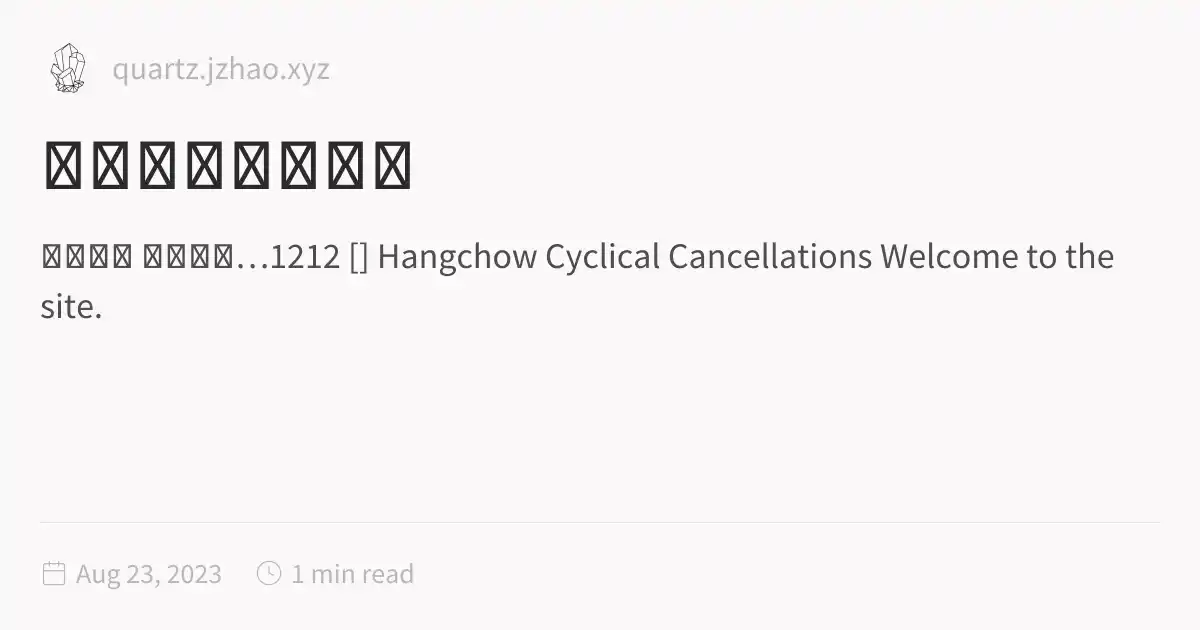
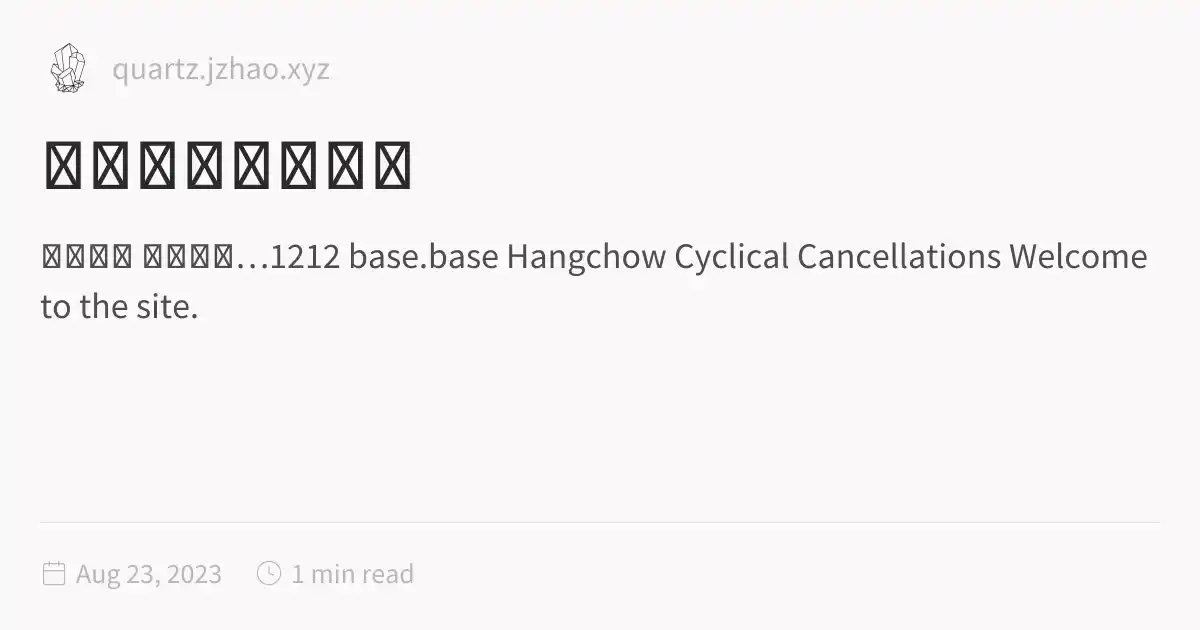
deploy: lihengjun/my-obsidian-vault@2c832732b156394f11b55da09ab7f004a84efbd4

Changed region(s): [[0.2775, 0.3921, 0.9558, 0.4524], [0.0308, 0.4524, 0.1542, 0.5127]]

diff --git a/index.html b/index.html
@@ -1,5 +1,5 @@
 <!DOCTYPE html>
-<html lang="en"><head><title>杭州城幹支戳蓃集</title><meta charset="utf-8"/><link rel="preconnect" href="https://fonts.googleapis.com"/><link rel="preconnect" href="https://fonts.gstatic.com"/><link rel="stylesheet" href="https://fonts.googleapis.com/css2?family=Schibsted Grotesk:wght@400;700&amp;family=Source Sans Pro:ital,wght@0,400;0,600;1,400;1,600&amp;family=IBM Plex Mono:wght@400;600&amp;display=swap"/><link rel="preconnect" href="https://cdnjs.cloudflare.com" crossorigin="anonymous"/><meta name="viewport" content="width=device-width, initial-scale=1.0"/><meta name="og:site_name" content="Quartz 4"/><meta property="og:title" content="杭州城幹支戳蓃集"/><meta property="og:type" content="website"/><meta name="twitter:card" content="summary_large_image"/><meta name="twitter:title" content="杭州城幹支戳蓃集"/><meta name="twitter:description" content="内容标题 你的内容…1212 [] Hangchow Cyclical Cancellations Welcome to the site."/><meta property="og:description" content="内容标题 你的内容…1212 [] Hangchow Cyclical Cancellations Welcome to the site."/><meta property="og:image:alt" content="内容标题 你的内容…1212 [] Hangchow Cyclical Cancellations Welcome to the site."/><meta property="twitter:domain" content="quartz.jzhao.xyz"/><meta property="og:url" content="https://quartz.jzhao.xyz/index"/><meta property="twitter:url" content="https://quartz.jzhao.xyz/index"/><link rel="icon" href="./static/icon.png"/><meta name="description" content="内容标题 你的内容…1212 [] Hangchow Cyclical Cancellations Welcome to the site."/><meta name="generator" content="Quartz"/><link href="./index.css" rel="stylesheet" type="text/css" spa-preserve/><style>.expand-button {
+<html lang="en"><head><title>杭州城幹支戳蓃集</title><meta charset="utf-8"/><link rel="preconnect" href="https://fonts.googleapis.com"/><link rel="preconnect" href="https://fonts.gstatic.com"/><link rel="stylesheet" href="https://fonts.googleapis.com/css2?family=Schibsted Grotesk:wght@400;700&amp;family=Source Sans Pro:ital,wght@0,400;0,600;1,400;1,600&amp;family=IBM Plex Mono:wght@400;600&amp;display=swap"/><link rel="preconnect" href="https://cdnjs.cloudflare.com" crossorigin="anonymous"/><meta name="viewport" content="width=device-width, initial-scale=1.0"/><meta name="og:site_name" content="Quartz 4"/><meta property="og:title" content="杭州城幹支戳蓃集"/><meta property="og:type" content="website"/><meta name="twitter:card" content="summary_large_image"/><meta name="twitter:title" content="杭州城幹支戳蓃集"/><meta name="twitter:description" content="内容标题 你的内容…1212 base.base Hangchow Cyclical Cancellations Welcome to the site."/><meta property="og:description" content="内容标题 你的内容…1212 base.base Hangchow Cyclical Cancellations Welcome to the site."/><meta property="og:image:alt" content="内容标题 你的内容…1212 base.base Hangchow Cyclical Cancellations Welcome to the site."/><meta property="twitter:domain" content="quartz.jzhao.xyz"/><meta property="og:url" content="https://quartz.jzhao.xyz/index"/><meta property="twitter:url" content="https://quartz.jzhao.xyz/index"/><link rel="icon" href="./static/icon.png"/><meta name="description" content="内容标题 你的内容…1212 base.base Hangchow Cyclical Cancellations Welcome to the site."/><meta name="generator" content="Quartz"/><link href="./index.css" rel="stylesheet" type="text/css" spa-preserve/><style>.expand-button {
   position: absolute;
   display: flex;
   float: right;
@@ -116,9 +116,9 @@ pre:hover > .expand-button {
   padding: 0 12px;
   font-size: 14px;
 }
[2 lines of base64/hex data omitted]
 <p>你的内容…1212</p>
-<p>[]</p>
+<p><a href="./base.base" class="internal" data-slug="base.base">base.base</a></p>
 <h1 id="hangchow-cyclical-cancellations">Hangchow Cyclical Cancellations<a role="anchor" aria-hidden="true" tabindex="-1" data-no-popover="true" href="#hangchow-cyclical-cancellations" class="internal"><svg width="18" height="18" viewBox="0 0 24 24" fill="none" stroke="currentColor" stroke-width="2" stroke-linecap="round" stroke-linejoin="round"><path d="M10 13a5 5 0 0 0 7.54.54l3-3a5 5 0 0 0-7.07-7.07l-1.72 1.71"></path><path d="M14 11a5 5 0 0 0-7.54-.54l-3 3a5 5 0 0 0 7.07 7.07l1.71-1.71"></path></svg></a></h1>
 <p>Welcome to the site.</p>
 <p><a href="./other" class="internal" data-slug="other">other</a></p>

diff --git a/news/index.html b/news/index.html
@@ -116,6 +116,6 @@ pre:hover > .expand-button {
   padding: 0 12px;
   font-size: 14px;
 }
[2 lines of base64/hex data omitted]
 </script><script type="module">function f(i,e){if(!i)return;function r(o){o.target===this&&(o.preventDefault(),o.stopPropagation(),e())}function t(o){o.key.startsWith("Esc")&&(o.preventDefault(),e())}i?.addEventListener("click",r),window.addCleanup(()=>i?.removeEventListener("click",r)),document.addEventListener("keydown",t),window.addCleanup(()=>document.removeEventListener("keydown",t))}function y(i){for(;i.firstChild;)i.removeChild(i.firstChild)}var h=class{constructor(e,r){this.container=e;this.content=r;this.setupEventListeners(),this.setupNavigationControls(),this.resetTransform()}isDragging=!1;startPan={x:0,y:0};currentPan={x:0,y:0};scale=1;MIN_SCALE=.5;MAX_SCALE=3;cleanups=[];setupEventListeners(){let e=this.onMouseDown.bind(this),r=this.onMouseMove.bind(this),t=this.onMouseUp.bind(this),o=this.resetTransform.bind(this);this.container.addEventListener("mousedown",e),document.addEventListener("mousemove",r),document.addEventListener("mouseup",t),window.addEventListener("resize",o),this.cleanups.push(()=>this.container.removeEventListener("mousedown",e),()=>document.removeEventListener("mousemove",r),()=>document.removeEventListener("mouseup",t),()=>window.removeEventListener("resize",o))}cleanup(){for(let e of this.cleanups)e()}setupNavigationControls(){let e=document.createElement("div");e.className="mermaid-controls";let r=this.createButton("+",()=>this.zoom(.1)),t=this.createButton("-",()=>this.zoom(-.1)),o=this.createButton("Reset",()=>this.resetTransform());e.appendChild(t),e.appendChild(o),e.appendChild(r),this.container.appendChild(e)}createButton(e,r){let t=document.createElement("button");return t.textContent=e,t.className="mermaid-control-button",t.addEventListener("click",r),window.addCleanup(()=>t.removeEventListener("click",r)),t}onMouseDown(e){e.button===0&&(this.isDragging=!0,this.startPan={x:e.clientX-this.currentPan.x,y:e.clientY-this.currentPan.y},this.container.style.cursor="grabbing")}onMouseMove(e){this.isDragging&&(e.preventDefault(),this.currentPan={x:e.clientX-this.startPan.x,y:e.clientY-this.startPan.y},this.updateTransform())}onMouseUp(){this.isDragging=!1,this.container.style.cursor="grab"}zoom(e){let r=Math.min(Math.max(this.scale+e,this.MIN_SCALE),this.MAX_SCALE),t=this.content.getBoundingClientRect(),o=t.width/2,n=t.height/2,c=r-this.scale;this.currentPan.x-=o*c,this.currentPan.y-=n*c,this.scale=r,this.updateTransform()}updateTransform(){this.content.style.transform=`translate(${this.currentPan.x}px, ${this.currentPan.y}px) scale(${this.scale})`}resetTransform(){this.scale=1;let e=this.content.querySelector("svg");this.currentPan={x:e.getBoundingClientRect().width/2,y:e.getBoundingClientRect().height/2},this.updateTransform()}},C=["--secondary","--tertiary","--gray","--light","--lightgray","--highlight","--dark","--darkgray","--codeFont"],E;document.addEventListener("nav",async()=>{let e=document.querySelector(".center").querySelectorAll("code.mermaid");if(e.length===0)return;E||=await import("https://cdnjs.cloudflare.com/ajax/libs/mermaid/11.4.0/mermaid.esm.min.mjs");let r=E.default,t=new WeakMap;for(let n of e)t.set(n,n.innerText);async function o(){for(let s of e){s.removeAttribute("data-processed");let a=t.get(s);a&&(s.innerHTML=a)}let n=C.reduce((s,a)=>(s[a]=window.getComputedStyle(document.documentElement).getPropertyValue(a),s),{}),c=document.documentElement.getAttribute("saved-theme")==="dark";r.initialize({startOnLoad:!1,securityLevel:"loose",theme:c?"dark":"base",themeVariables:{fontFamily:n["--codeFont"],primaryColor:n["--light"],primaryTextColor:n["--darkgray"],primaryBorderColor:n["--tertiary"],lineColor:n["--darkgray"],secondaryColor:n["--secondary"],tertiaryColor:n["--tertiary"],clusterBkg:n["--light"],edgeLabelBackground:n["--highlight"]}}),await r.run({nodes:e})}await o(),document.addEventListener("themechange",o),window.addCleanup(()=>document.removeEventListener("themechange",o));for(let n=0;n<e.length;n++){let v=function(){let g=l.querySelector("#mermaid-space"),m=l.querySelector(".mermaid-content");if(!m)return;y(m);let w=c.querySelector("svg").cloneNode(!0);m.appendChild(w),l.classList.add("active"),g.style.cursor="grab",u=new h(g,m)},M=function(){l.classList.remove("active"),u?.cleanup(),u=null},c=e[n],s=c.parentElement,a=s.querySelector(".clipboard-button"),d=s.querySelector(".expand-button"),p=window.getComputedStyle(a),L=a.offsetWidth+parseFloat(p.marginLeft||"0")+parseFloat(p.marginRight||"0");d.style.right=`calc(${L}px + 0.3rem)`,s.prepend(d);let l=s.querySelector("#mermaid-container");if(!l)return;let u=null;d.addEventListener("click",v),f(l,M),window.addCleanup(()=>{u?.cleanup(),d.removeEventListener("click",v)})}});
 </script><script src="https://cdn.jsdelivr.net/npm/katex@0.16.11/dist/contrib/copy-tex.min.js" type="application/javascript"></script><script src="../postscript.js" type="module"></script></html>

diff --git a/news/link.html b/news/link.html
@@ -116,7 +116,7 @@ pre:hover > .expand-button {
   padding: 0 12px;
   font-size: 14px;
 }
[2 lines of base64/hex data omitted]
                 s-3.542,0.634-4.898,1.688l-7.669-7.669C16.785,10.424,17,9.74,17,9c0-2.206-1.794-4-4-4S9,6.794,9,9s1.794,4,4,4
                 c0.74,0,1.424-0.215,2.019-0.567l7.669,7.669C21.634,21.458,21,23.154,21,25s0.634,3.542,1.688,4.897L10.024,42.562
                 C8.958,41.595,7.549,41,6,41c-3.309,0-6,2.691-6,6s2.691,6,6,6s6-2.691,6-6c0-1.035-0.263-2.009-0.726-2.86l12.829-12.829

diff --git a/other.html b/other.html
@@ -116,7 +116,7 @@ pre:hover > .expand-button {
   padding: 0 12px;
   font-size: 14px;
 }
[2 lines of base64/hex data omitted]
                 s-3.542,0.634-4.898,1.688l-7.669-7.669C16.785,10.424,17,9.74,17,9c0-2.206-1.794-4-4-4S9,6.794,9,9s1.794,4,4,4
                 c0.74,0,1.424-0.215,2.019-0.567l7.669,7.669C21.634,21.458,21,23.154,21,25s0.634,3.542,1.688,4.897L10.024,42.562
                 C8.958,41.595,7.549,41,6,41c-3.309,0-6,2.691-6,6s2.691,6,6,6s6-2.691,6-6c0-1.035-0.263-2.009-0.726-2.86l12.829-12.829

diff --git a/Untitled.html b/Untitled.html
@@ -1,0 +1,131 @@
+<!DOCTYPE html>
+<html lang="en"><head><title>Untitled</title><meta charset="utf-8"/><link rel="preconnect" href="https://fonts.googleapis.com"/><link rel="preconnect" href="https://fonts.gstatic.com"/><link rel="stylesheet" href="https://fonts.googleapis.com/css2?family=Schibsted Grotesk:wght@400;700&amp;family=Source Sans Pro:ital,wght@0,400;0,600;1,400;1,600&amp;family=IBM Plex Mono:wght@400;600&amp;display=swap"/><link rel="preconnect" href="https://cdnjs.cloudflare.com" crossorigin="anonymous"/><meta name="viewport" content="width=device-width, initial-scale=1.0"/><meta name="og:site_name" content="Quartz 4"/><meta property="og:title" content="Untitled"/><meta property="og:type" content="website"/><meta name="twitter:card" content="summary_large_image"/><meta name="twitter:title" content="Untitled"/><meta name="twitter:description" content/><meta property="og:description" content/><meta property="og:image:alt" content/><meta property="twitter:domain" content="quartz.jzhao.xyz"/><meta property="og:url" content="https://quartz.jzhao.xyz/Untitled"/><meta property="twitter:url" content="https://quartz.jzhao.xyz/Untitled"/><link rel="icon" href="./static/icon.png"/><meta name="description" content/><meta name="generator" content="Quartz"/><link href="./index.css" rel="stylesheet" type="text/css" spa-preserve/><style>.expand-button {
+  position: absolute;
+  display: flex;
+  float: right;
+  padding: 0.4rem;
+  margin: 0.3rem;
+  right: 0;
+  color: var(--gray);
+  border-color: var(--dark);
+  background-color: var(--light);
+  border: 1px solid;
+  border-radius: 5px;
+  opacity: 0;
+  transition: 0.2s;
+}
+.expand-button > svg {
+  fill: var(--light);
+  filter: contrast(0.3);
+}
+.expand-button:hover {
+  cursor: pointer;
+  border-color: var(--secondary);
+}
+.expand-button:focus {
+  outline: 0;
+}
+
+pre:hover > .expand-button {
+  opacity: 1;
+  transition: 0.2s;
+}
+
+#mermaid-container {
+  position: fixed;
+  contain: layout;
+  z-index: 999;
+  left: 0;
+  top: 0;
+  width: 100vw;
+  height: 100vh;
+  overflow: hidden;
+  display: none;
+  backdrop-filter: blur(4px);
+  background: rgba(0, 0, 0, 0.5);
+}
+#mermaid-container.active {
+  display: inline-block;
+}
+#mermaid-container > #mermaid-space {
+  border: 1px solid var(--lightgray);
+  background-color: var(--light);
+  border-radius: 5px;
+  position: fixed;
+  top: 50%;
+  left: 50%;
+  transform: translate(-50%, -50%);
+  height: 80vh;
+  width: 80vw;
+  overflow: hidden;
+}
+#mermaid-container > #mermaid-space > .mermaid-content {
+  padding: 2rem;
+  position: relative;
+  transform-origin: 0 0;
+  transition: transform 0.1s ease;
+  overflow: visible;
+  min-height: 200px;
+  min-width: 200px;
+}
+#mermaid-container > #mermaid-space > .mermaid-content pre {
+  margin: 0;
+  border: none;
+}
+#mermaid-container > #mermaid-space > .mermaid-content svg {
+  max-width: none;
+  height: auto;
+}
+#mermaid-container > #mermaid-space > .mermaid-controls {
+  position: absolute;
+  bottom: 20px;
+  right: 20px;
+  display: flex;
+  gap: 8px;
+  padding: 8px;
+  background: var(--light);
+  border: 1px solid var(--lightgray);
+  border-radius: 6px;
+  box-shadow: 0 2px 4px rgba(0, 0, 0, 0.1);
+  z-index: 2;
+}
+#mermaid-container > #mermaid-space > .mermaid-controls .mermaid-control-button {
+  display: flex;
+  align-items: center;
+  justify-content: center;
+  width: 32px;
+  height: 32px;
+  padding: 0;
+  border: 1px solid var(--lightgray);
+  background: var(--light);
+  color: var(--dark);
+  border-radius: 4px;
+  cursor: pointer;
+  font-size: 16px;
+  font-family: var(--bodyFont);
+  transition: all 0.2s ease;
+}
+#mermaid-container > #mermaid-space > .mermaid-controls .mermaid-control-button:hover {
+  background: var(--lightgray);
+}
+#mermaid-container > #mermaid-space > .mermaid-controls .mermaid-control-button:active {
+  transform: translateY(1px);
+}
+#mermaid-container > #mermaid-space > .mermaid-controls .mermaid-control-button:nth-child(2) {
+  width: auto;
+  padding: 0 12px;
+  font-size: 14px;
+}
[1 lines of base64/hex data omitted]
+                s-3.542,0.634-4.898,1.688l-7.669-7.669C16.785,10.424,17,9.74,17,9c0-2.206-1.794-4-4-4S9,6.794,9,9s1.794,4,4,4
+                c0.74,0,1.424-0.215,2.019-0.567l7.669,7.669C21.634,21.458,21,23.154,21,25s0.634,3.542,1.688,4.897L10.024,42.562
+                C8.958,41.595,7.549,41,6,41c-3.309,0-6,2.691-6,6s2.691,6,6,6s6-2.691,6-6c0-1.035-0.263-2.009-0.726-2.86l12.829-12.829
+                c1.106,0.86,2.44,1.436,3.898,1.619v10.16c-2.833,0.478-5,2.942-5,5.91c0,3.309,2.691,6,6,6s6-2.691,6-6c0-2.967-2.167-5.431-5-5.91
+                v-10.16c1.458-0.183,2.792-0.759,3.898-1.619l7.669,7.669C41.215,39.576,41,40.26,41,41c0,2.206,1.794,4,4,4s4-1.794,4-4
+                s-1.794-4-4-4c-0.74,0-1.424,0.215-2.019,0.567l-7.669-7.669C36.366,28.542,37,26.846,37,25s-0.634-3.542-1.688-4.897l9.665-9.665
+                C46.042,11.405,47.451,12,49,12c3.309,0,6-2.691,6-6S52.309,0,49,0z M11,9c0-1.103,0.897-2,2-2s2,0.897,2,2s-0.897,2-2,2
+                S11,10.103,11,9z M6,51c-2.206,0-4-1.794-4-4s1.794-4,4-4s4,1.794,4,4S8.206,51,6,51z M33,49c0,2.206-1.794,4-4,4s-4-1.794-4-4
+                s1.794-4,4-4S33,46.794,33,49z M29,31c-3.309,0-6-2.691-6-6s2.691-6,6-6s6,2.691,6,6S32.309,31,29,31z M47,41c0,1.103-0.897,2-2,2
+                s-2-0.897-2-2s0.897-2,2-2S47,39.897,47,41z M49,10c-2.206,0-4-1.794-4-4s1.794-4,4-4s4,1.794,4,4S51.206,10,49,10z"></path></svg></button></div><div class="global-graph-outer"><div class="global-graph-container" data-cfg="{&quot;drag&quot;:true,&quot;zoom&quot;:true,&quot;depth&quot;:-1,&quot;scale&quot;:0.9,&quot;repelForce&quot;:0.5,&quot;centerForce&quot;:0.2,&quot;linkDistance&quot;:30,&quot;fontSize&quot;:0.6,&quot;opacityScale&quot;:1,&quot;showTags&quot;:true,&quot;removeTags&quot;:[],&quot;focusOnHover&quot;:true,&quot;enableRadial&quot;:true}"></div></div></div></div><footer class><p>Created with <a href="https://quartz.jzhao.xyz/">Quartz v4.5.1</a> © 2025</p><ul><li><a href="https://github.com/jackyzha0/quartz">GitHub</a></li><li><a href="https://discord.gg/cRFFHYye7t">Discord Community</a></li></ul></footer></div></div></body><script type="application/javascript">function n(){let t=this.parentElement;t.classList.toggle("is-collapsed");let e=t.getElementsByClassName("callout-content")[0];if(!e)return;let l=t.classList.contains("is-collapsed");e.style.gridTemplateRows=l?"0fr":"1fr"}function c(){let t=document.getElementsByClassName("callout is-collapsible");for(let e of t){let l=e.getElementsByClassName("callout-title")[0],s=e.getElementsByClassName("callout-content")[0];if(!l||!s)continue;l.addEventListener("click",n),window.addCleanup(()=>l.removeEventListener("click",n));let o=e.classList.contains("is-collapsed");s.style.gridTemplateRows=o?"0fr":"1fr"}}document.addEventListener("nav",c);
+</script><script type="module">function f(i,e){if(!i)return;function r(o){o.target===this&&(o.preventDefault(),o.stopPropagation(),e())}function t(o){o.key.startsWith("Esc")&&(o.preventDefault(),e())}i?.addEventListener("click",r),window.addCleanup(()=>i?.removeEventListener("click",r)),document.addEventListener("keydown",t),window.addCleanup(()=>document.removeEventListener("keydown",t))}function y(i){for(;i.firstChild;)i.removeChild(i.firstChild)}var h=class{constructor(e,r){this.container=e;this.content=r;this.setupEventListeners(),this.setupNavigationControls(),this.resetTransform()}isDragging=!1;startPan={x:0,y:0};currentPan={x:0,y:0};scale=1;MIN_SCALE=.5;MAX_SCALE=3;cleanups=[];setupEventListeners(){let e=this.onMouseDown.bind(this),r=this.onMouseMove.bind(this),t=this.onMouseUp.bind(this),o=this.resetTransform.bind(this);this.container.addEventListener("mousedown",e),document.addEventListener("mousemove",r),document.addEventListener("mouseup",t),window.addEventListener("resize",o),this.cleanups.push(()=>this.container.removeEventListener("mousedown",e),()=>document.removeEventListener("mousemove",r),()=>document.removeEventListener("mouseup",t),()=>window.removeEventListener("resize",o))}cleanup(){for(let e of this.cleanups)e()}setupNavigationControls(){let e=document.createElement("div");e.className="mermaid-controls";let r=this.createButton("+",()=>this.zoom(.1)),t=this.createButton("-",()=>this.zoom(-.1)),o=this.createButton("Reset",()=>this.resetTransform());e.appendChild(t),e.appendChild(o),e.appendChild(r),this.container.appendChild(e)}createButton(e,r){let t=document.createElement("button");return t.textContent=e,t.className="mermaid-control-button",t.addEventListener("click",r),window.addCleanup(()=>t.removeEventListener("click",r)),t}onMouseDown(e){e.button===0&&(this.isDragging=!0,this.startPan={x:e.clientX-this.currentPan.x,y:e.clientY-this.currentPan.y},this.container.style.cursor="grabbing")}onMouseMove(e){this.isDragging&&(e.preventDefault(),this.currentPan={x:e.clientX-this.startPan.x,y:e.clientY-this.startPan.y},this.updateTransform())}onMouseUp(){this.isDragging=!1,this.container.style.cursor="grab"}zoom(e){let r=Math.min(Math.max(this.scale+e,this.MIN_SCALE),this.MAX_SCALE),t=this.content.getBoundingClientRect(),o=t.width/2,n=t.height/2,c=r-this.scale;this.currentPan.x-=o*c,this.currentPan.y-=n*c,this.scale=r,this.updateTransform()}updateTransform(){this.content.style.transform=`translate(${this.currentPan.x}px, ${this.currentPan.y}px) scale(${this.scale})`}resetTransform(){this.scale=1;let e=this.content.querySelector("svg");this.currentPan={x:e.getBoundingClientRect().width/2,y:e.getBoundingClientRect().height/2},this.updateTransform()}},C=["--secondary","--tertiary","--gray","--light","--lightgray","--highlight","--dark","--darkgray","--codeFont"],E;document.addEventListener("nav",async()=>{let e=document.querySelector(".center").querySelectorAll("code.mermaid");if(e.length===0)return;E||=await import("https://cdnjs.cloudflare.com/ajax/libs/mermaid/11.4.0/mermaid.esm.min.mjs");let r=E.default,t=new WeakMap;for(let n of e)t.set(n,n.innerText);async function o(){for(let s of e){s.removeAttribute("data-processed");let a=t.get(s);a&&(s.innerHTML=a)}let n=C.reduce((s,a)=>(s[a]=window.getComputedStyle(document.documentElement).getPropertyValue(a),s),{}),c=document.documentElement.getAttribute("saved-theme")==="dark";r.initialize({startOnLoad:!1,securityLevel:"loose",theme:c?"dark":"base",themeVariables:{fontFamily:n["--codeFont"],primaryColor:n["--light"],primaryTextColor:n["--darkgray"],primaryBorderColor:n["--tertiary"],lineColor:n["--darkgray"],secondaryColor:n["--secondary"],tertiaryColor:n["--tertiary"],clusterBkg:n["--light"],edgeLabelBackground:n["--highlight"]}}),await r.run({nodes:e})}await o(),document.addEventListener("themechange",o),window.addCleanup(()=>document.removeEventListener("themechange",o));for(let n=0;n<e.length;n++){let v=function(){let g=l.querySelector("#mermaid-space"),m=l.querySelector(".mermaid-content");if(!m)return;y(m);let w=c.querySelector("svg").cloneNode(!0);m.appendChild(w),l.classList.add("active"),g.style.cursor="grab",u=new h(g,m)},M=function(){l.classList.remove("active"),u?.cleanup(),u=null},c=e[n],s=c.parentElement,a=s.querySelector(".clipboard-button"),d=s.querySelector(".expand-button"),p=window.getComputedStyle(a),L=a.offsetWidth+parseFloat(p.marginLeft||"0")+parseFloat(p.marginRight||"0");d.style.right=`calc(${L}px + 0.3rem)`,s.prepend(d);let l=s.querySelector("#mermaid-container");if(!l)return;let u=null;d.addEventListener("click",v),f(l,M),window.addCleanup(()=>{u?.cleanup(),d.removeEventListener("click",v)})}});
+</script><script src="https://cdn.jsdelivr.net/npm/katex@0.16.11/dist/contrib/copy-tex.min.js" type="application/javascript"></script><script src="./postscript.js" type="module"></script></html>
